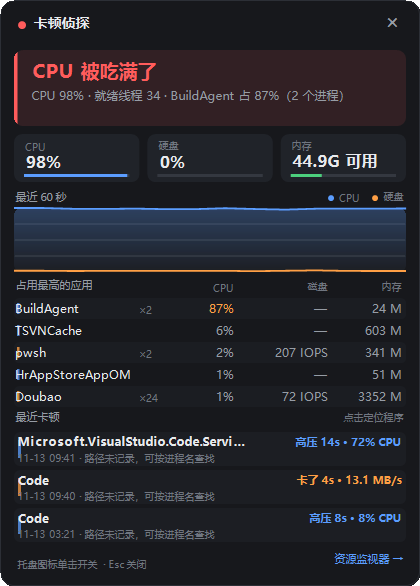
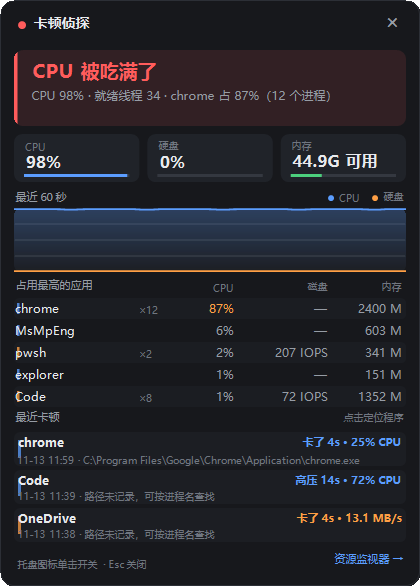
docs: replace private screenshot details with demo data

diff --git a/README.en.md b/README.en.md
@@ -14,7 +14,7 @@ The hard part of diagnosing a stutter is not the data, it's the **timing**:
 - Task Manager does not show disk latency or queue depth; Resource Monitor does, but you have to dig for it and interpret it yourself. An NVMe drive at 100% utilization with 1ms latency feels fine; a spinning disk at 100% with 80ms latency makes the mouse stutter.
 - Paging, drivers and antivirus scanning happen in kernel mode, so Task Manager cannot attribute them to an app.
 
-So LagLens samples every second, keeps the last 60 seconds in memory, and records the moment the system froze. Open it after the stutter and you see "it froze for 4 seconds, and BuildAgent was eating the CPU", not "everything looks fine now".
+So LagLens samples every second, keeps the last 60 seconds in memory, and records the moment the system froze. Open it after the stutter and you see "it froze for 4 seconds, and Chrome was eating the CPU", not "everything looks fine now".
 
 ## Features
 
@@ -41,7 +41,7 @@ The three tray states:
 
 ![Tray states](docs/images/tray-states.png)
 
-> BuildAgent / BackupAgent and the 4-second freeze in the screenshots are demo scenarios staged for the docs. Every number in the panel is real sampled data.
+> Screenshots use simulated data to demonstrate freezes, high CPU usage, and a busy disk. App names and paths are examples of common software; no actual usage records or local machine paths are included.
 
 ## How the verdict is made
 

diff --git a/README.md b/README.md
@@ -41,7 +41,7 @@
 
 ![托盘状态](docs/images/tray-states.png)
 
-> 截图中的 BuildAgent / BackupAgent 以及那次 4 秒冻结，都是为生成文档而人为制造的演示场景；面板里的数值都是程序的真实采样结果。
+> 截图使用模拟数据演示冻结、CPU 高占用和磁盘繁忙场景。软件名称及路径均为常见软件的示例，不包含真实使用记录或本机路径。
 
 ## 判定逻辑
 
